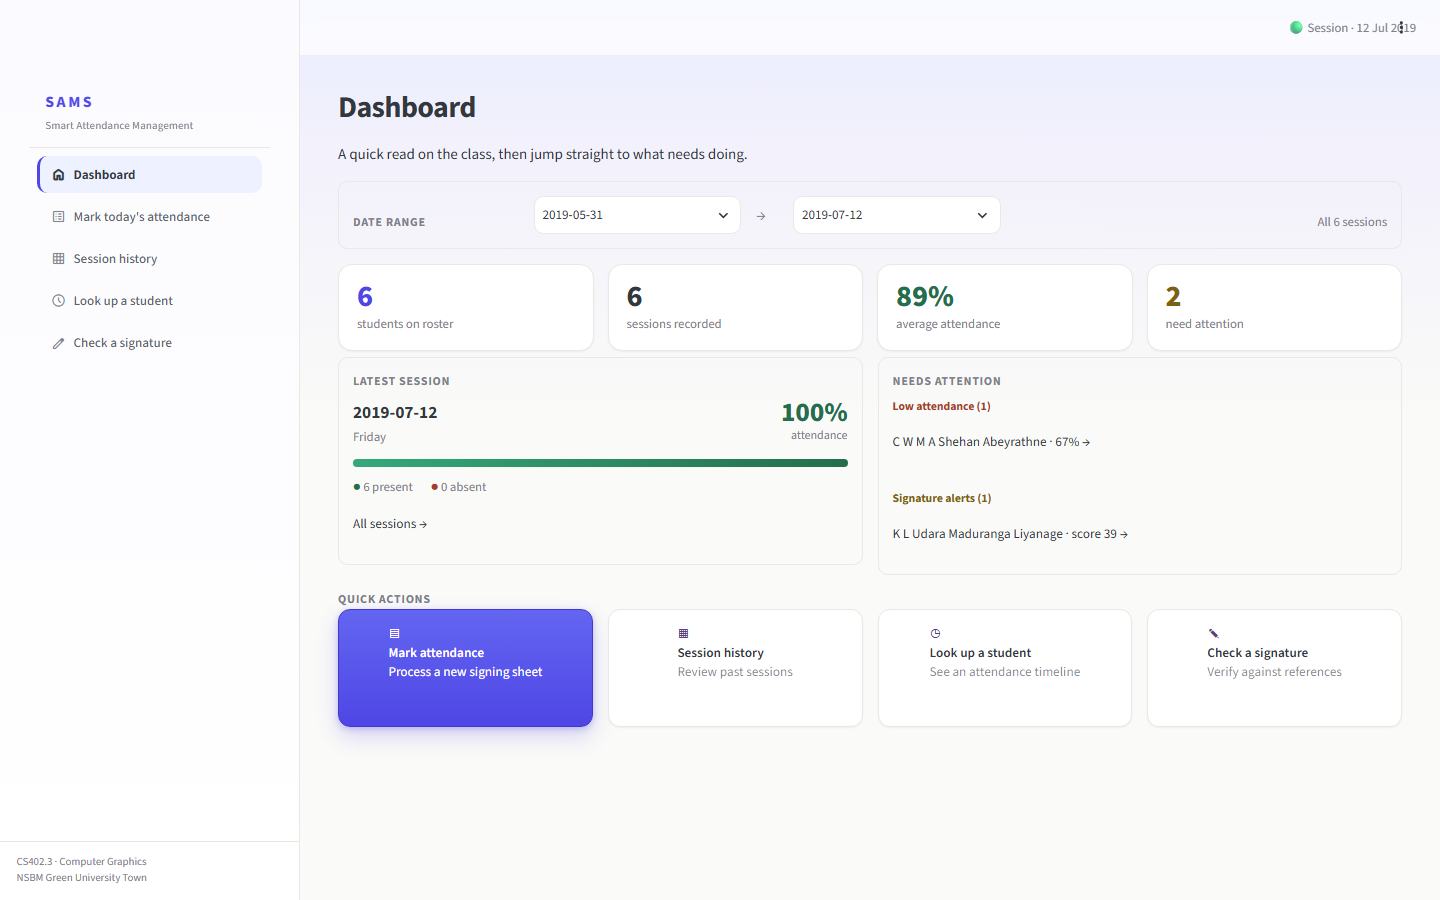
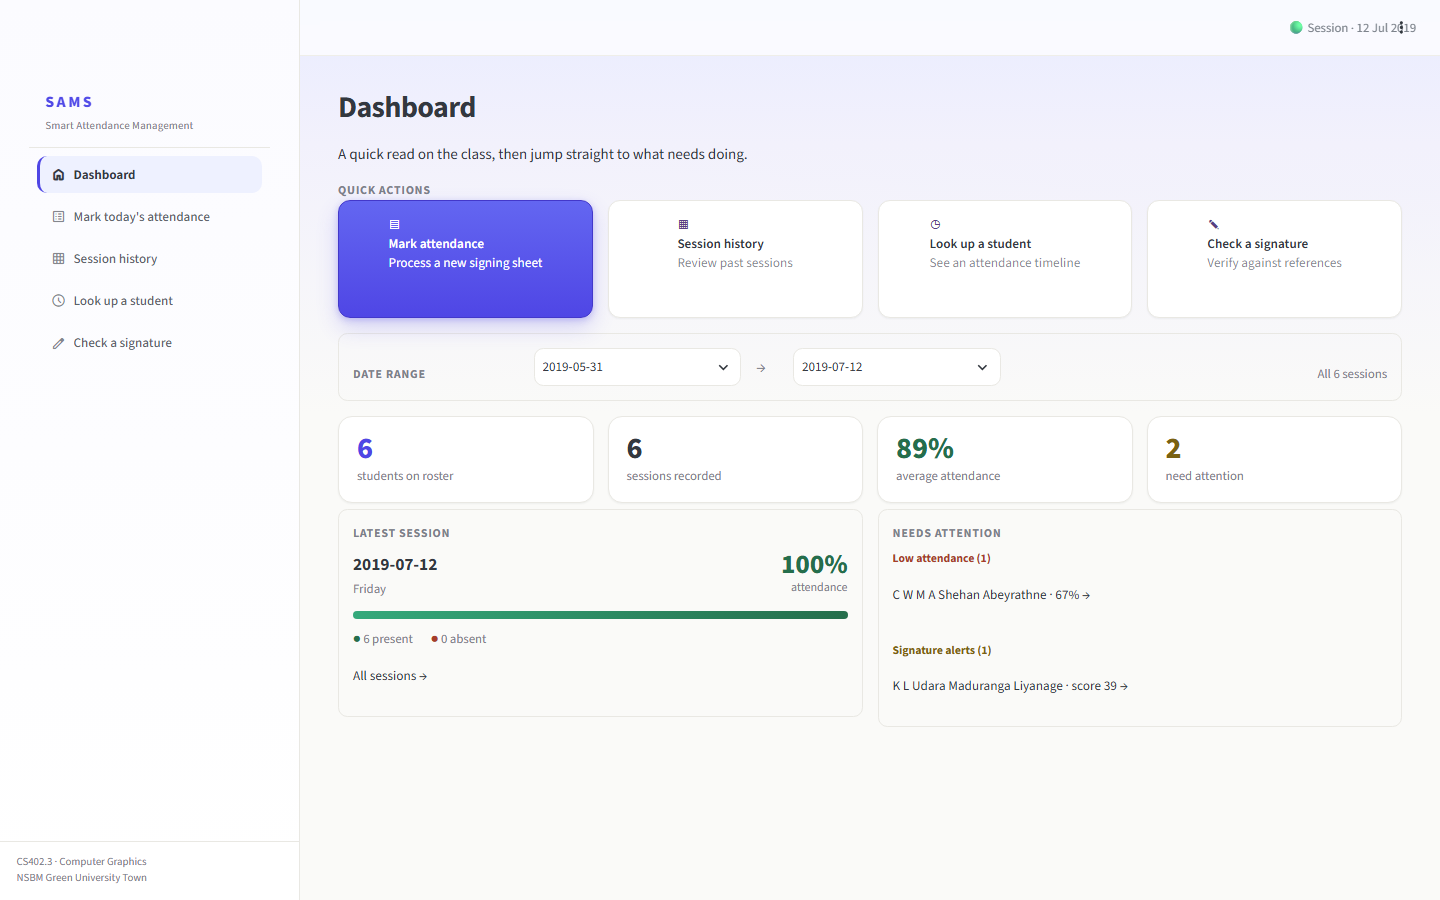
Give mark attendance priority on the dashboard

diff --git a/webui/pages/Dashboard.py b/webui/pages/Dashboard.py
@@ -207,9 +207,11 @@ def _render_overview(data, repository) -> None:
 
 
 def _quick_actions() -> None:
-    """QUICK ACTIONS (SAMS design): four tall left-aligned icon cards, as real
-    router switches (the card body is the button's markdown label; the
-    .st-key-quick_actions CSS in app.py gives the card shape)."""
+    """QUICK ACTIONS: four tall left-aligned icon cards, as real router
+    switches (the card body is the button's markdown label; the
+    .st-key-quick_actions CSS in app.py gives the card shape). Rendered FIRST
+    on the page — marking today's attendance is the system's main function,
+    so its primary card leads before any read-only overview."""
     _overline("QUICK ACTIONS")
     actions = (
         ("▤", "Mark attendance", "Process a new signing sheet", "pages/Process.py", "primary"),
@@ -237,6 +239,7 @@ except Exception:  # AD-6: no raw traceback may reach the browser
     st.error("Something went wrong reading the saved records.")
 
 if data is not None:
+    _quick_actions()
     if data.message:
         st.write(data.message)
     else:
@@ -246,4 +249,3 @@ if data is not None:
             st.error("Something went wrong reading the saved records.")
         except Exception:
             st.error("Something went wrong reading the saved records.")
-    _quick_actions()
